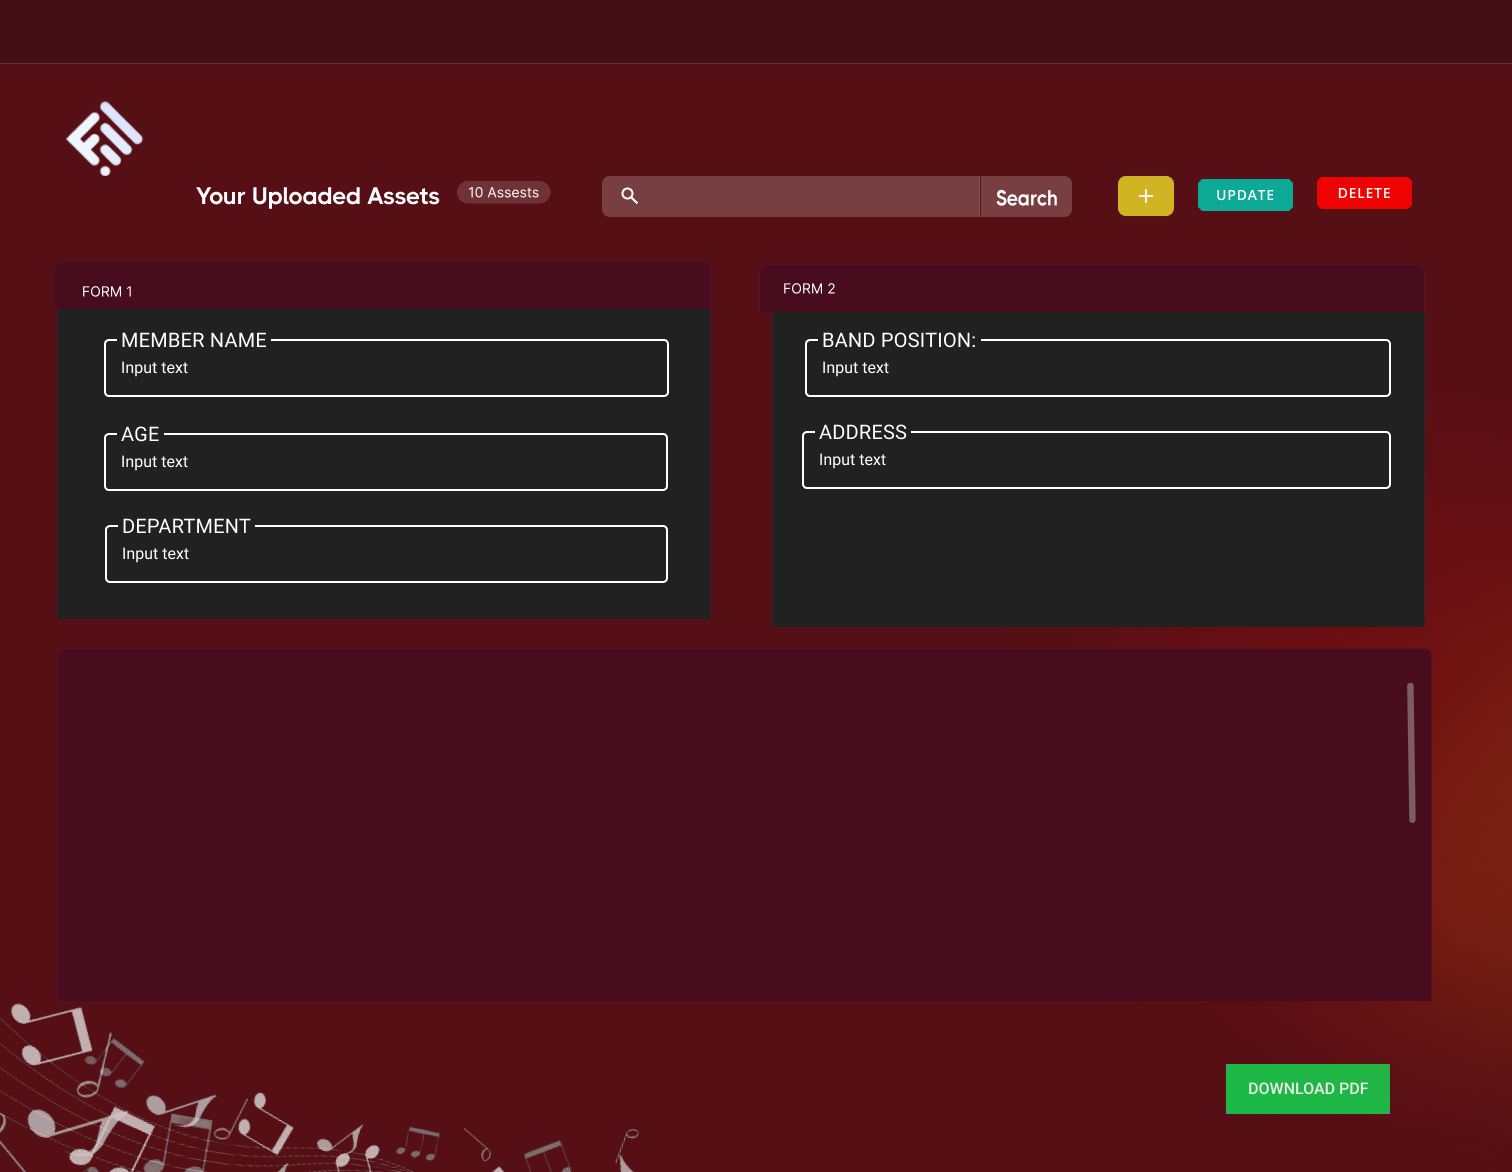
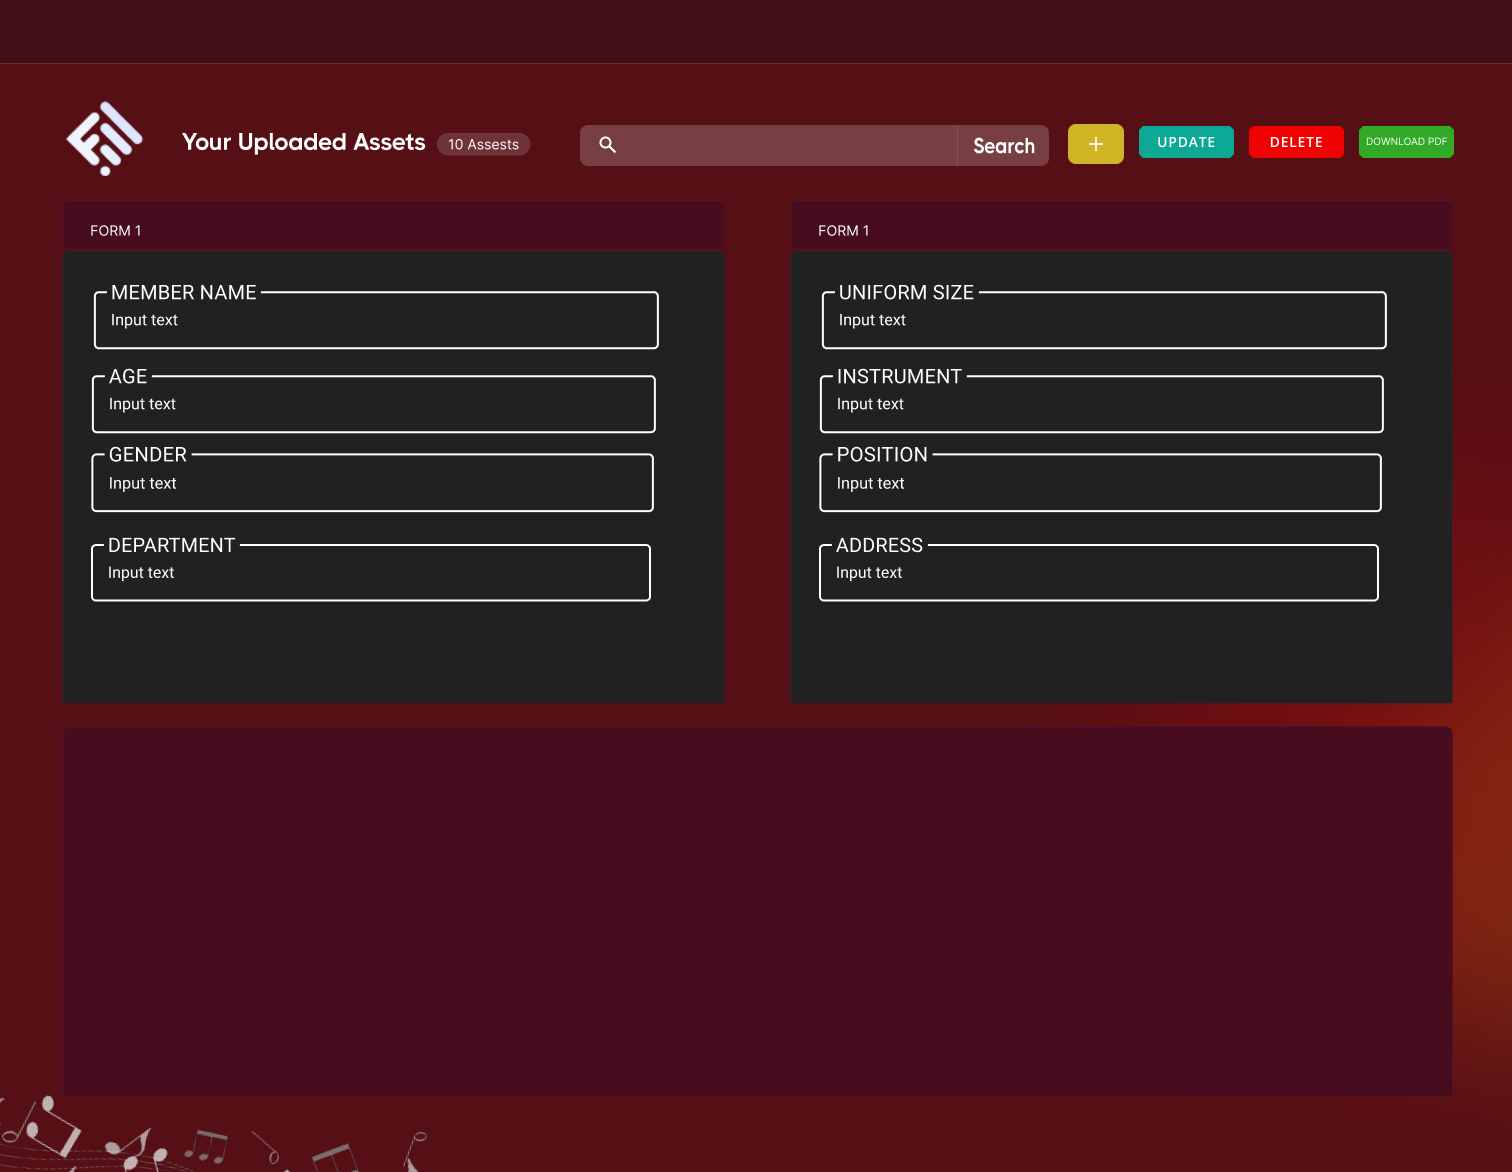
DONE

diff --git a/BAND.py b/BAND.py
@@ -16,6 +16,9 @@ class CustomApp:
         #self.create_widgets_frames()
         self.create_widgets_treeview()
 
+        CustomApp.next_member_id = 51  # Initialize next_member_id at the class level
+
+
     def create_widgets_background(self):
         original_image = Image.open("Dashboard.png")
         width, height = 800, 700
@@ -33,7 +36,7 @@ class CustomApp:
         resized_image = SEARCH_image.resize((50, 25), Image.LANCZOS)
         self.SEARCH_image = ImageTk.PhotoImage(resized_image)
         self.SEARCH_button = Button(self.canvas, image=self.SEARCH_image, bd=0, height=25, width=50, compound='center', relief=tk.FLAT,highlightthickness=0)
-        self.SEARCH_button.place(x=517, y=105)
+        self.SEARCH_button.place(x=506, y=75)
         self.SEARCH_button.bind("<ButtonRelease-1>", self.search_entry_by_id_and_name)
 
 
@@ -42,21 +45,24 @@ class CustomApp:
         resized_ADD_image = ADD_IMAGE.resize((30, 25), Image.LANCZOS)
         self.ADD_IMAGE = ImageTk.PhotoImage(resized_ADD_image)
         self.ADD_button = Button(self.canvas, image=self.ADD_IMAGE, bd=0, height=25, width=30, compound='center', relief=tk.FLAT,highlightthickness=0)
-        self.ADD_button.place(x=591, y=105)
+        self.ADD_button.place(x=565, y=74)
+        self.ADD_button.bind("<ButtonRelease-1>", self.add_member)
 
         #UPDATE BUTTON
         UPDATE_IMAGE = Image.open("UPDATE.png")
         resized_UPDATE_image = UPDATE_IMAGE.resize((56, 25), Image.LANCZOS)
         self.UPDATE_IMAGE = ImageTk.PhotoImage(resized_UPDATE_image)
         self.UPDATE_button = Button(self.canvas, image=self.UPDATE_IMAGE, bd=0, height=25, width=56, compound='center', relief=tk.FLAT,highlightthickness=0)
-        self.UPDATE_button.place(x=630, y=105)
+        self.UPDATE_button.place(x=600, y=74)
+        self.UPDATE_button.bind("<ButtonRelease-1>", self.update_member)
 
         #DELETE BUTTON
         DELETE_IMAGE = Image.open("DELETE.png")
         resized_DELETE_image = DELETE_IMAGE.resize((56, 25), Image.LANCZOS)
         self.DELETE_IMAGE = ImageTk.PhotoImage(resized_DELETE_image)
         self.DELETE_button = Button(self.canvas, image=self.DELETE_IMAGE, bd=0, height=25, width=56, compound='center', relief=tk.FLAT,highlightthickness=0)
-        self.DELETE_button.place(x=693, y=105)
+        self.DELETE_button.place(x=660, y=74)
+        self.DELETE_button.bind("<ButtonRelease-1>", self.delete_member)
 
 
     def create_widgets_entry(self):
@@ -64,7 +70,7 @@ class CustomApp:
         
 
         self.SEARCH_ENTRY = Entry(self.canvas, width=16, font=('Arial', 14),bd=0, bg="#993333",fg="white")
-        self.SEARCH_ENTRY.place(x=340, y=106)
+        self.SEARCH_ENTRY.place(x=329, y=75)
 
     # Set default value
         self.SEARCH_ENTRY.insert(0, default_value)
@@ -75,38 +81,58 @@ class CustomApp:
 
 
         #MEMBER_NAME ENTRY 
-        default_value_ENTRIES ="INPUT TEXT"
+        default_value_ENTRIES ="INPUT HERE"
         self.MEMBERNAME_ENTRY = Entry(self.canvas, width=27, font=('Arial', 10,),bd=0, bg="#212121",fg="white")
-        self.MEMBERNAME_ENTRY.place(x=60, y=210)
+        self.MEMBERNAME_ENTRY.place(x=58, y=183)
         self.MEMBERNAME_ENTRY.insert(0, default_value_ENTRIES)
         self.MEMBERNAME_ENTRY.bind("<FocusIn>", self.clear_default_value)
 
         #AGE
         self.AGE_ENTRY = Entry(self.canvas, width=27, font=('Arial', 10,),bd=0, bg="#212121",fg="white")
-        self.AGE_ENTRY.place(x=60, y=265)
+        self.AGE_ENTRY.place(x=58, y=235)
         self.AGE_ENTRY.insert(0, default_value_ENTRIES)
         self.AGE_ENTRY.bind("<FocusIn>", self.clear_default_value)
 
+        #GENDER
+        self.GENDER_ENTRY = Entry(self.canvas, width=27, font=('Arial', 10,),bd=0, bg="#212121",fg="white")
+        self.GENDER_ENTRY.place(x=58, y=280)
+        self.GENDER_ENTRY.insert(0, default_value_ENTRIES)
+        self.GENDER_ENTRY.bind("<FocusIn>", self.clear_default_value)
+
         #DEPARTMENT
         self.DEPARTMENT_ENTRY = Entry(self.canvas, width=27, font=('Arial', 10,),bd=0, bg="#212121",fg="white")
-        self.DEPARTMENT_ENTRY.place(x=60, y=320)
+        self.DEPARTMENT_ENTRY.place(x=57, y=332)
         self.DEPARTMENT_ENTRY.insert(0, default_value_ENTRIES)
         self.DEPARTMENT_ENTRY.bind("<FocusIn>", self.clear_default_value)
 
+
+        """THIS IS THE SECOND FORM"""
+        #UNIFORM SIZE
+        self.UNIFORM_ENTRY = Entry(self.canvas, width=27, font=('Arial', 10,),bd=0, bg="#212121",fg="white")
+        self.UNIFORM_ENTRY.place(x=440, y=183)
+        self.UNIFORM_ENTRY.insert(0, default_value_ENTRIES)
+        self.UNIFORM_ENTRY.bind("<FocusIn>", self.clear_default_value)
+
+        #INSTRUMENT
+        self.INSTRUMENT_ENTRY = Entry(self.canvas, width=27, font=('Arial', 10,),bd=0, bg="#212121",fg="white")
+        self.INSTRUMENT_ENTRY.place(x=440, y=235)
+        self.INSTRUMENT_ENTRY.insert(0, default_value_ENTRIES)
+        self.INSTRUMENT_ENTRY.bind("<FocusIn>", self.clear_default_value)
+
+
         #BAND POSITION
         self.POSITION_ENTRY = Entry(self.canvas, width=27, font=('Arial', 10,),bd=0, bg="#212121",fg="white")
-        self.POSITION_ENTRY.place(x=433, y=210)
+        self.POSITION_ENTRY.place(x=440, y=280)
         self.POSITION_ENTRY.insert(0, default_value_ENTRIES)
         self.POSITION_ENTRY.bind("<FocusIn>", self.clear_default_value)
 
         #ADDRESS
         self.ADDRESS_ENTRY = Entry(self.canvas, width=27, font=('Arial', 10,),bd=0, bg="#212121",fg="white")
-        self.ADDRESS_ENTRY.place(x=433, y=265)
+        self.ADDRESS_ENTRY.place(x=440, y=332)
         self.ADDRESS_ENTRY.insert(0, default_value_ENTRIES)
         self.ADDRESS_ENTRY.bind("<FocusIn>", self.clear_default_value)
 
 
-# ... (Previous code)
 
     def create_widgets_treeview(self):
         try:
@@ -139,11 +165,11 @@ class CustomApp:
 
             # Adjusted the x-coordinate of the Treeview widget
             self.treeview = ttk.Treeview(self.canvas, columns=columns, show="headings", height=9, style=f"{maroon_color}.Treeview")
-            self.treeview.place(x=5, y=390)
+            self.treeview.place(x=5, y=435)
 
              # Create a vertical scrollbar
             scrollbar = ttk.Scrollbar(self.canvas, orient="vertical", command=self.treeview.yview)
-            scrollbar.place(x=777, y=390, height=206)  # Adjust the x, y, and height as needed
+            scrollbar.place(x=777, y=435, height=206)  # Adjust the x, y, and height as needed
 
             # Configure the Treeview to use the scrollbar
             self.treeview.configure(yscrollcommand=scrollbar.set)
@@ -205,21 +231,27 @@ class CustomApp:
             self.POSITION_ENTRY.insert(0, item_data[8])  # Position
             self.ADDRESS_ENTRY.delete(0, tk.END)
             self.ADDRESS_ENTRY.insert(0, item_data[6])  # Address
-
-
-
-  
+            #GENDER
+            self.GENDER_ENTRY.delete(0, tk.END)
+            self.GENDER_ENTRY.insert(0, item_data[3]) 
+            #UNIFORM
+            self.UNIFORM_ENTRY.delete(0, tk.END)
+            self.UNIFORM_ENTRY.insert(0, item_data[5]) 
+            #INSTRUMENT
+            self.INSTRUMENT_ENTRY.delete(0, tk.END)
+            self.INSTRUMENT_ENTRY.insert(0, item_data[7]) 
+            
 
     def clear_default_value(self, event):
         # Clear default value when the entry is clicked
-        if self.SEARCH_ENTRY.get() == "Search":
+        if self.SEARCH_ENTRY.get() == "Search" and event.widget == self.SEARCH_ENTRY:
             self.SEARCH_ENTRY.delete(0, tk.END)
-        if self.MEMBERNAME_ENTRY.get() and self.AGE_ENTRY.get() and self.DEPARTMENT_ENTRY.get() and self.POSITION_ENTRY.get() and self.ADDRESS_ENTRY.get() == "INPUT TEXT":
-            self.MEMBERNAME_ENTRY.delete(0,tk.END)
-            self.AGE_ENTRY.delete(0,tk.END)
-            self.DEPARTMENT_ENTRY.delete(0,tk.END)
-            self.POSITION_ENTRY.delete(0,tk.END)
-            self.ADDRESS_ENTRY.delete(0,tk.END)
+
+        # Check the entry that currently has focus and clear it if necessary
+        focused_entry = self.master.focus_get()
+        if focused_entry and focused_entry != self.SEARCH_ENTRY:
+            if focused_entry.get() == "INPUT HERE":
+                focused_entry.delete(0, tk.END)
 
 
     def search_entry_by_id_and_name(self, event):
@@ -270,6 +302,211 @@ class CustomApp:
 
         except mysql.connector.Error as e:
             print(f"MySQL Error: {e}")
+
+
+    def get_next_member_id(self):
+        """Generate the next available MemberID."""
+        member_id = self.next_member_id
+        self.next_member_id += 1
+        return member_id
+
+
+    def update_member(self, event):
+        # Get the selected item
+        selected_item = self.treeview.selection()
+
+        if selected_item:
+            # Fetch data from the selected item
+            item_data = self.treeview.item(selected_item, "values")
+            
+            # Get updated data from entry widgets
+            member_name = self.MEMBERNAME_ENTRY.get()
+            age = self.AGE_ENTRY.get()
+            gender = self.GENDER_ENTRY.get()
+            department = self.DEPARTMENT_ENTRY.get()
+            uniform_size = self.UNIFORM_ENTRY.get()
+            instrument = self.INSTRUMENT_ENTRY.get()
+            position = self.POSITION_ENTRY.get()
+            address = self.ADDRESS_ENTRY.get()
+
+            # Validate required fields (you can add more validation as needed)
+            if not member_name or not age or not gender or not department:
+                messagebox.showerror("Error", "Please fill in all required fields.")
+                return
+
+            try:
+                conn = mysql.connector.connect(
+                    host="127.0.0.1",
+                    user="root",
+                    password="POGIako2003",
+                    database="band"
+                )
+                cursor = conn.cursor()
+
+                # Update the member information
+                cursor.execute(
+                    """
+                    UPDATE members
+                    SET MemberName=%s, Age=%s, Gender=%s, Department=%s, UniformSize=%s, Address=%s
+                    WHERE MemberID=%s
+                    """,
+                    (member_name, age, gender, department, uniform_size, address, item_data[0])  # item_data[0] is the MemberID
+                )
+
+                # Update the instrument information
+                cursor.execute(
+                    """
+                    UPDATE instruments
+                    SET Instrument=%s, BandPosition=%s
+                    WHERE MemberID=%s
+                    """,
+                    (instrument, position, item_data[0])  # item_data[0] is the MemberID
+                )
+
+                conn.commit()
+
+                # Update the Treeview to display the updated member
+                self.search_entry_by_id_and_name(None)  # Call the search function to refresh the Treeview
+
+                messagebox.showinfo("Success", "Member updated successfully.")
+
+            except mysql.connector.Error as e:
+                messagebox.showerror("Error", f"MySQL Error: {e}")
+
+            finally:
+                if conn:
+                    conn.close()
+
+
+
+
+
+
+    def add_member(self, event):
+        # Get data from entry widgets
+        member_name = self.MEMBERNAME_ENTRY.get()
+        age = self.AGE_ENTRY.get()
+        gender = self.GENDER_ENTRY.get()
+        department = self.DEPARTMENT_ENTRY.get()
+        uniform_size = self.UNIFORM_ENTRY.get()
+        instrument = self.INSTRUMENT_ENTRY.get()
+        position = self.POSITION_ENTRY.get()
+        address = self.ADDRESS_ENTRY.get()
+
+        # Validate required fields (you can add more validation as needed)
+        if not member_name or not age or not gender or not department:
+            messagebox.showerror("Error", "Please fill in all required fields.")
+            return
+
+        try:
+            conn = mysql.connector.connect(
+                host="127.0.0.1",
+                user="root",
+                password="POGIako2003",
+                database="band"
+            )
+            cursor = conn.cursor()
+
+            # Get the next available MemberID
+            member_id = self.get_next_member_id()
+
+            # Insert the new member information
+            cursor.execute(
+                """
+                INSERT INTO members (MemberID, MemberName, Age, Gender, Department, UniformSize, Address)
+                VALUES (%s, %s, %s, %s, %s, %s, %s)
+                """,
+                (member_id, member_name, age, gender, department, uniform_size, address)
+            )
+
+            # Insert the instrument information
+            cursor.execute(
+                """
+                INSERT INTO instruments (MemberID, Instrument, BandPosition)
+                VALUES (%s, %s, %s)
+                """,
+                (member_id, instrument, position)
+            )
+
+            conn.commit()
+
+            # Update the Treeview to display the added member
+            self.search_entry_by_id_and_name(None)  # Call the search function to refresh the Treeview
+
+            messagebox.showinfo("Success", "Member added successfully.")
+
+            self.MEMBERNAME_ENTRY.delete(0, tk.END)
+            self.AGE_ENTRY.delete(0, tk.END)
+            self.GENDER_ENTRY.delete(0, tk.END)
+            self.DEPARTMENT_ENTRY.delete(0, tk.END)
+            self.UNIFORM_ENTRY.delete(0, tk.END)
+            self.INSTRUMENT_ENTRY.delete(0, tk.END)
+            self.POSITION_ENTRY.delete(0, tk.END)
+            self.ADDRESS_ENTRY.delete(0, tk.END)
+
+        except mysql.connector.Error as e:
+            messagebox.showerror("Error", f"MySQL Error: {e}")
+
+        finally:
+            if conn:
+                conn.close()
+
+
+
+
+
+    def delete_member(self, event):
+        # Get the selected item
+        selected_item = self.treeview.selection()
+
+        if selected_item:
+            # Fetch data from the selected item
+            item_data = self.treeview.item(selected_item, "values")
+            
+            # Get MemberID
+            member_id = item_data[0]
+
+            try:
+                conn = mysql.connector.connect(
+                    host="127.0.0.1",
+                    user="root",
+                    password="POGIako2003",
+                    database="band"
+                )
+                cursor = conn.cursor()
+
+                # Delete the instrument information first
+                cursor.execute("DELETE FROM instruments WHERE MemberID = %s", (member_id,))
+
+                # Delete the member information
+                cursor.execute("DELETE FROM members WHERE MemberID = %s", (member_id,))
+
+                conn.commit()
+
+                # Update the Treeview to display the updated list
+                self.search_entry_by_id_and_name(None)  # Call the search function to refresh the Treeview
+
+                messagebox.showinfo("Success", "Member deleted successfully.")
+
+                self.MEMBERNAME_ENTRY.delete(0, tk.END)
+                self.AGE_ENTRY.delete(0, tk.END)
+                self.GENDER_ENTRY.delete(0, tk.END)
+                self.DEPARTMENT_ENTRY.delete(0, tk.END)
+                self.UNIFORM_ENTRY.delete(0, tk.END)
+                self.INSTRUMENT_ENTRY.delete(0, tk.END)
+                self.POSITION_ENTRY.delete(0, tk.END)
+                self.ADDRESS_ENTRY.delete(0, tk.END)
+
+            except mysql.connector.Error as e:
+                messagebox.showerror("Error", f"MySQL Error: {e}")
+
+            finally:
+                if conn:
+                    conn.close()
+
+
+
+
 
 
 
